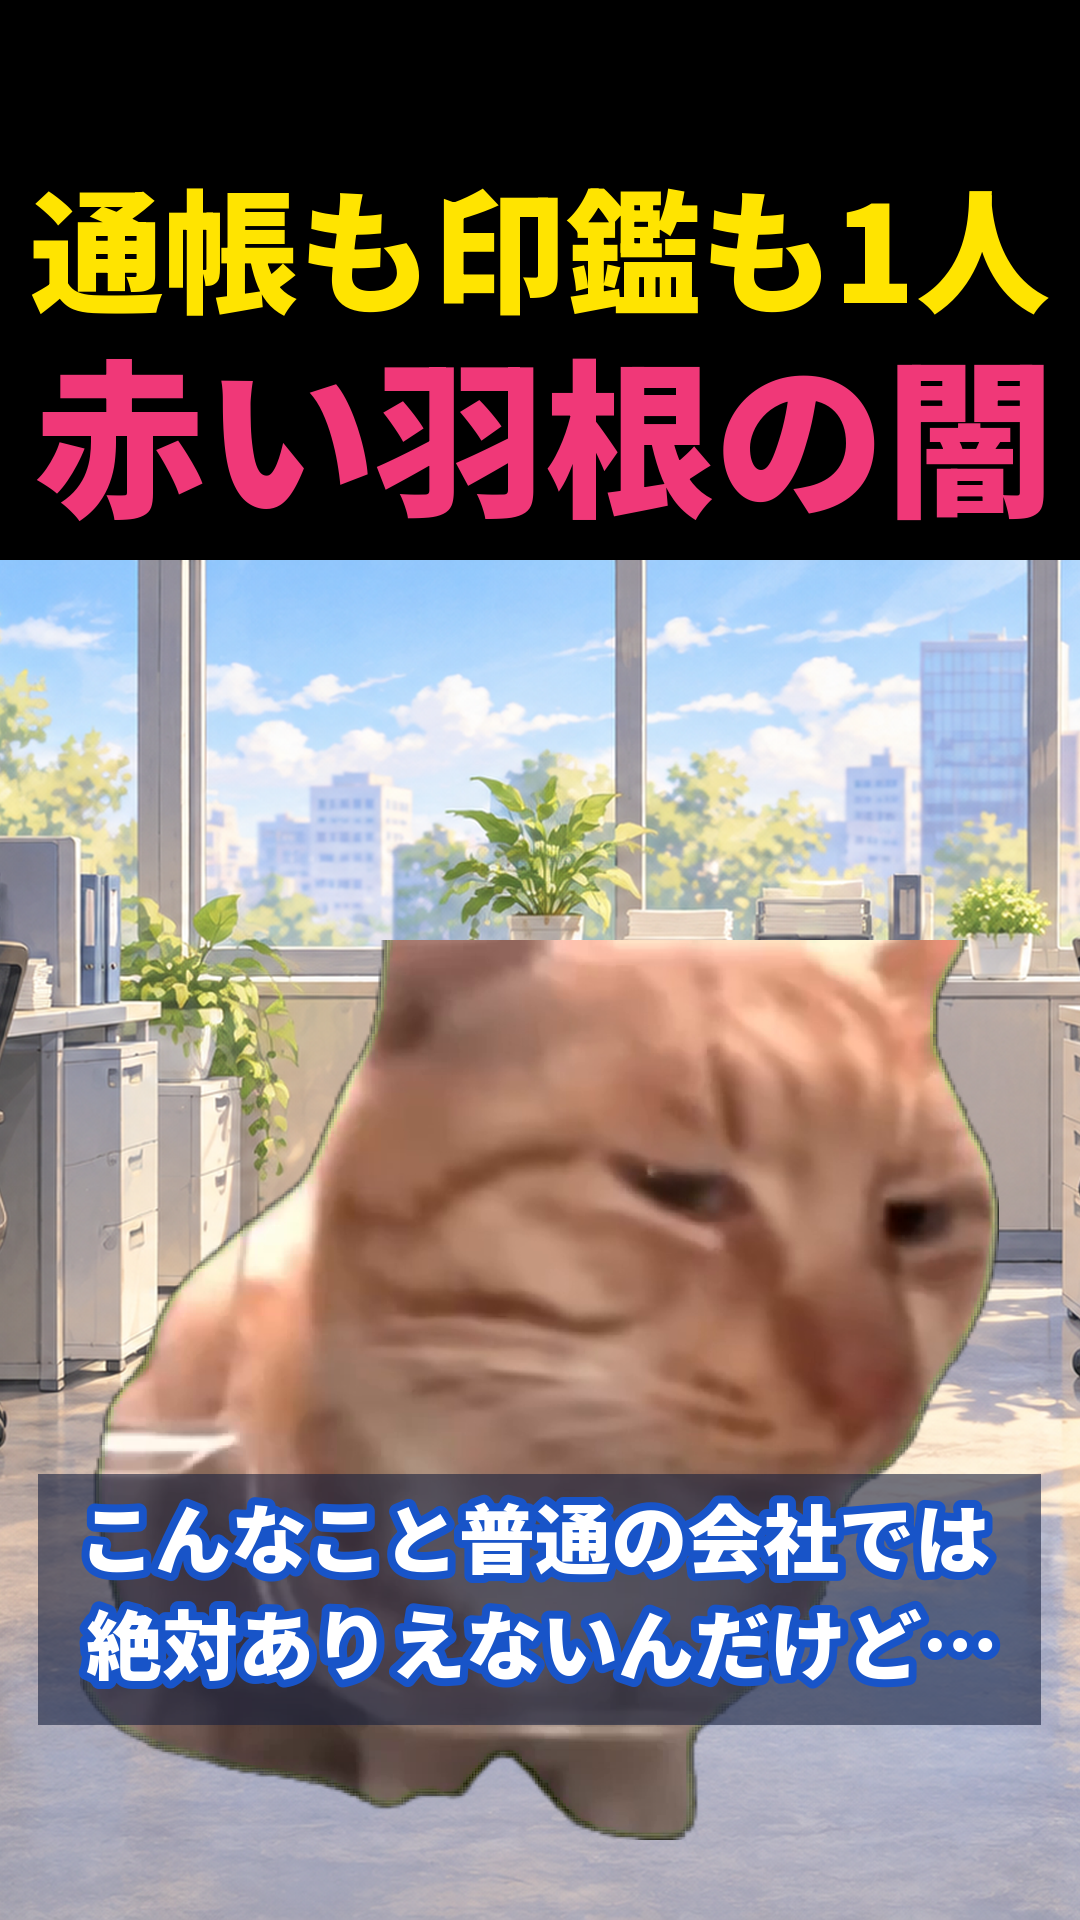
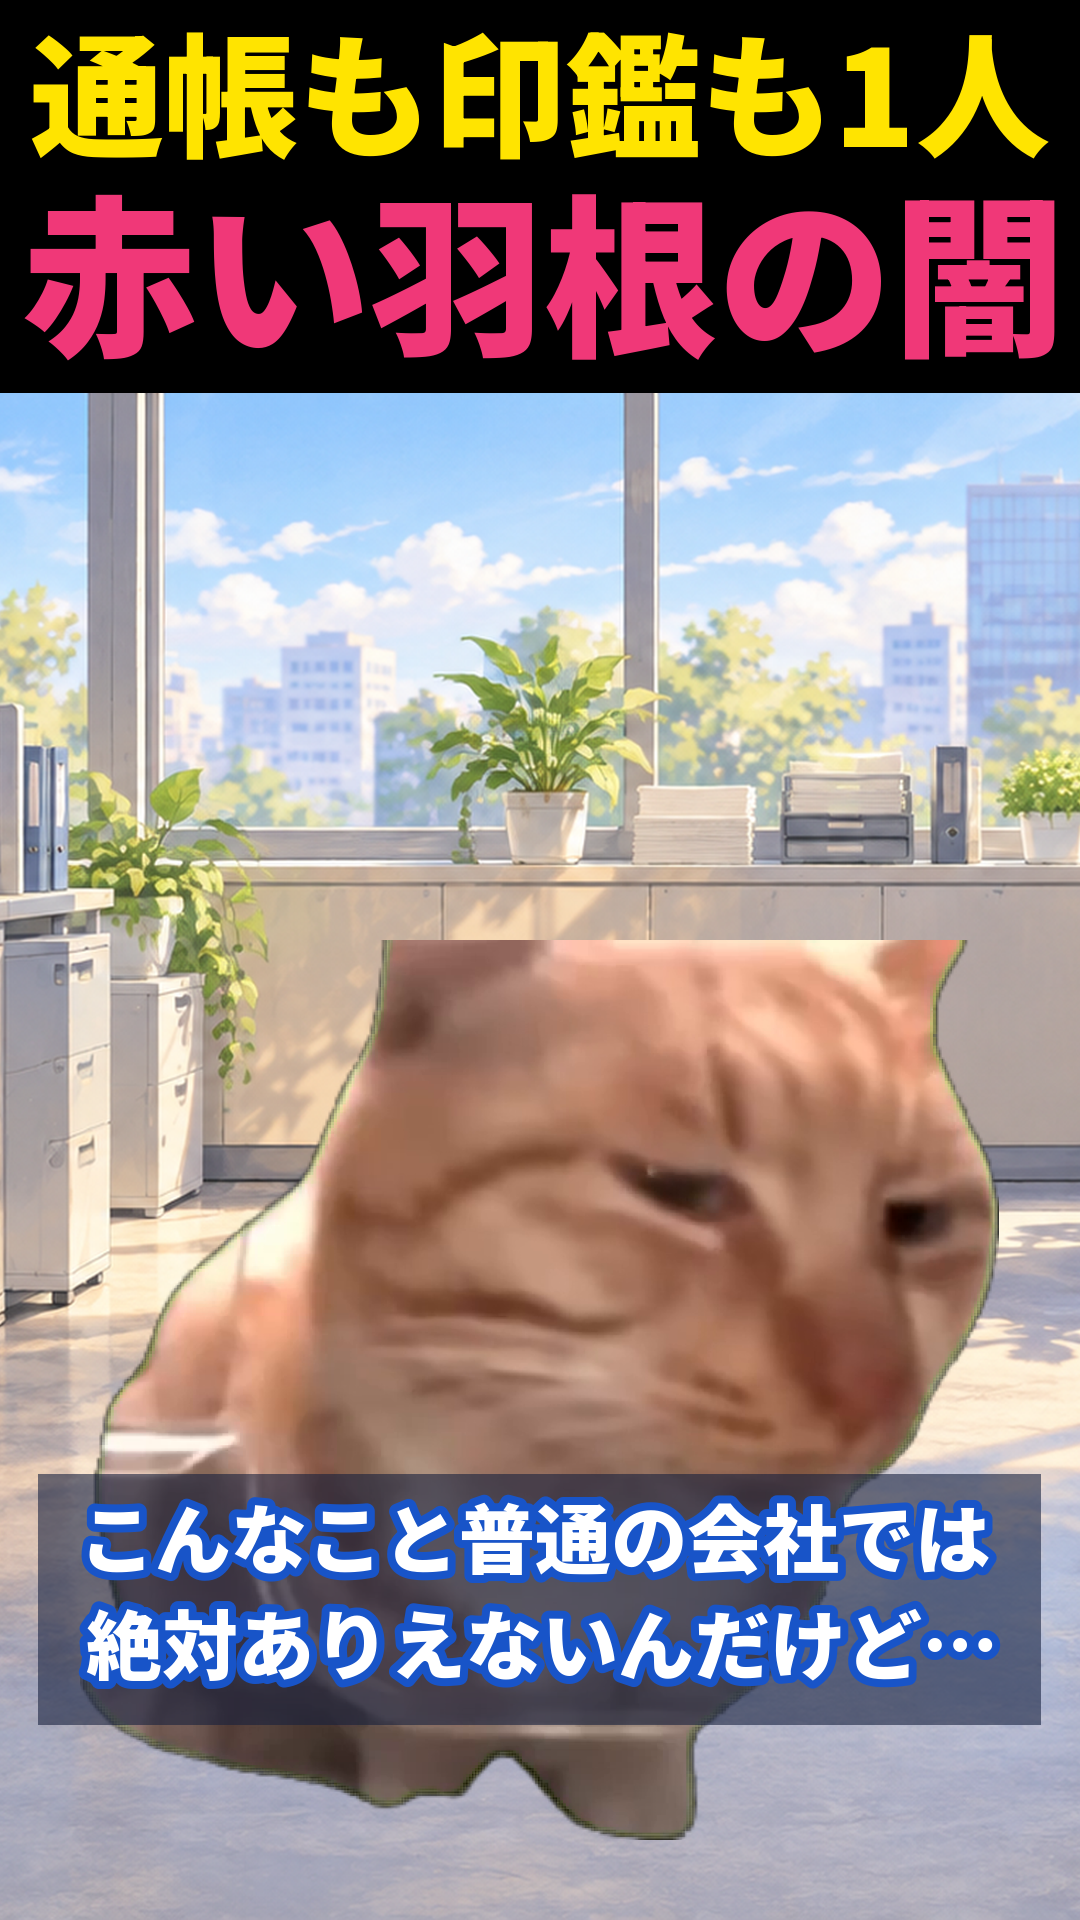
ショートのサムネ：黒い帯を2行の文字ぴったりの高さに（上の余りをなくす）
Claude-Session: https://claude.ai/code/session_011g9CsrfFD5YswfNSvNDW39

diff --git a/catmeme/make_thumb_short_ref.py b/catmeme/make_thumb_short_ref.py
@@ -1,7 +1,7 @@
 """ショートのサムネ：参考フォーマット（ユーザー指定 10/13）をマネして作る。縦 1080x1920。
 
 参考3枚（「外国人が思わず撮影！日本の子供に衝撃！」「整備工場にトヨタが来た時の海外の反応」「帰国直後に衝撃 日本との違い」）の作り
-- 上：黒い帯に2行の極太ゴシック。1行目と2行目で色を変える（赤×黄／黄×オレンジ／黄×ピンク）。行いっぱいの大きさ
+- 上：黒い帯（2行の文字の高さぴったり・上に余白を作らない）に2行の極太ゴシック。1行目と2行目で色を変える（赤×黄／黄×オレンジ／黄×ピンク）。行いっぱいの大きさ
 - 真ん中〜下：写真を全面に（帯のすぐ下から一番下まで）。猫ミームは写真の中に入れ込む
 - 写真の中ほど〜下に、ひとことテロップを1つ（3種類）
     a) 青い文字＋白い縁を、半透明の白いぼかし帯にのせる（「日本の日常の光景。」）
@@ -39,10 +39,9 @@ def bg_path(n):
     raise FileNotFoundError(n)
 
 
-def photo(name, zoom=1.0, cx=0.5):
+def photo(name, zoom=1.0, cx=0.5, h=SH - BAND_H):
     """背景を帯の下の全面に敷く（縦に合わせて拡大し、cx の位置で切り出す）。"""
     im = Image.open(bg_path(name)).convert("RGB")
-    h = SH - BAND_H
     k = h / im.height * zoom
     im = im.resize((int(im.width * k), int(im.height * k)), Image.LANCZOS)
     x0 = int((im.width - SW) * cx)
@@ -86,19 +85,20 @@ def caption(text, style):
 
 def make(out_name, line1, col1, line2, col2, bg, cats, cap, cap_style, cap_y=1220, credit="", zoom=1.0, cx=0.5,
          stroke1=BLACK):
+    # 上の黒い帯：参考どおり、2行の文字の高さぴったり（上下に余りを作らない）。文字は横幅の約95%（10/13）
+    t1 = heavy(line1, 190, col1, stroke1, 6, w=SW - 20)
+    t2 = heavy(line2, 190, col2, BLACK, 6, w=SW - 20)
+    pad, gap = 26, 22
+    band_h = pad + t1.height + gap + t2.height + pad
     img = Image.new("RGB", (SW, SH), BLACK)
-    img.paste(photo(bg, zoom, cx), (0, BAND_H))
+    ph = photo(bg, zoom, cx, h=SH - band_h)
+    img.paste(ph, (0, band_h))
     out = np.asarray(img)[:, :, ::-1].astype(np.float32) / 255
     for name, t, x, bottom, h, flip in cats:   # 猫ミームを写真の中に入れ込む
         H.cat(out, name, t, x, bottom, h, flip=flip)
     pil = Image.fromarray((np.clip(out, 0, 1) * 255).astype(np.uint8)[:, :, ::-1]).convert("RGBA")
-    # 上の黒い帯（2行）
-    t1 = heavy(line1, 190, col1, stroke1, 6)   # 参考どおり1行8〜10文字で、横いっぱいの大きさ
-    t2 = heavy(line2, 190, col2, BLACK, 6)
-    gap = 30
-    top = 150 + (BAND_H - 150 - t1.height - t2.height - gap) // 2
-    pil.alpha_composite(t1, ((SW - t1.width) // 2, top))
-    pil.alpha_composite(t2, ((SW - t2.width) // 2, top + t1.height + gap))
+    pil.alpha_composite(t1, ((SW - t1.width) // 2, pad))
+    pil.alpha_composite(t2, ((SW - t2.width) // 2, pad + t1.height + gap))
     # ひとことテロップ
     c, _ = caption(cap, cap_style)
     pil.alpha_composite(c, ((SW - c.width) // 2, int(cap_y - c.height / 2)))
